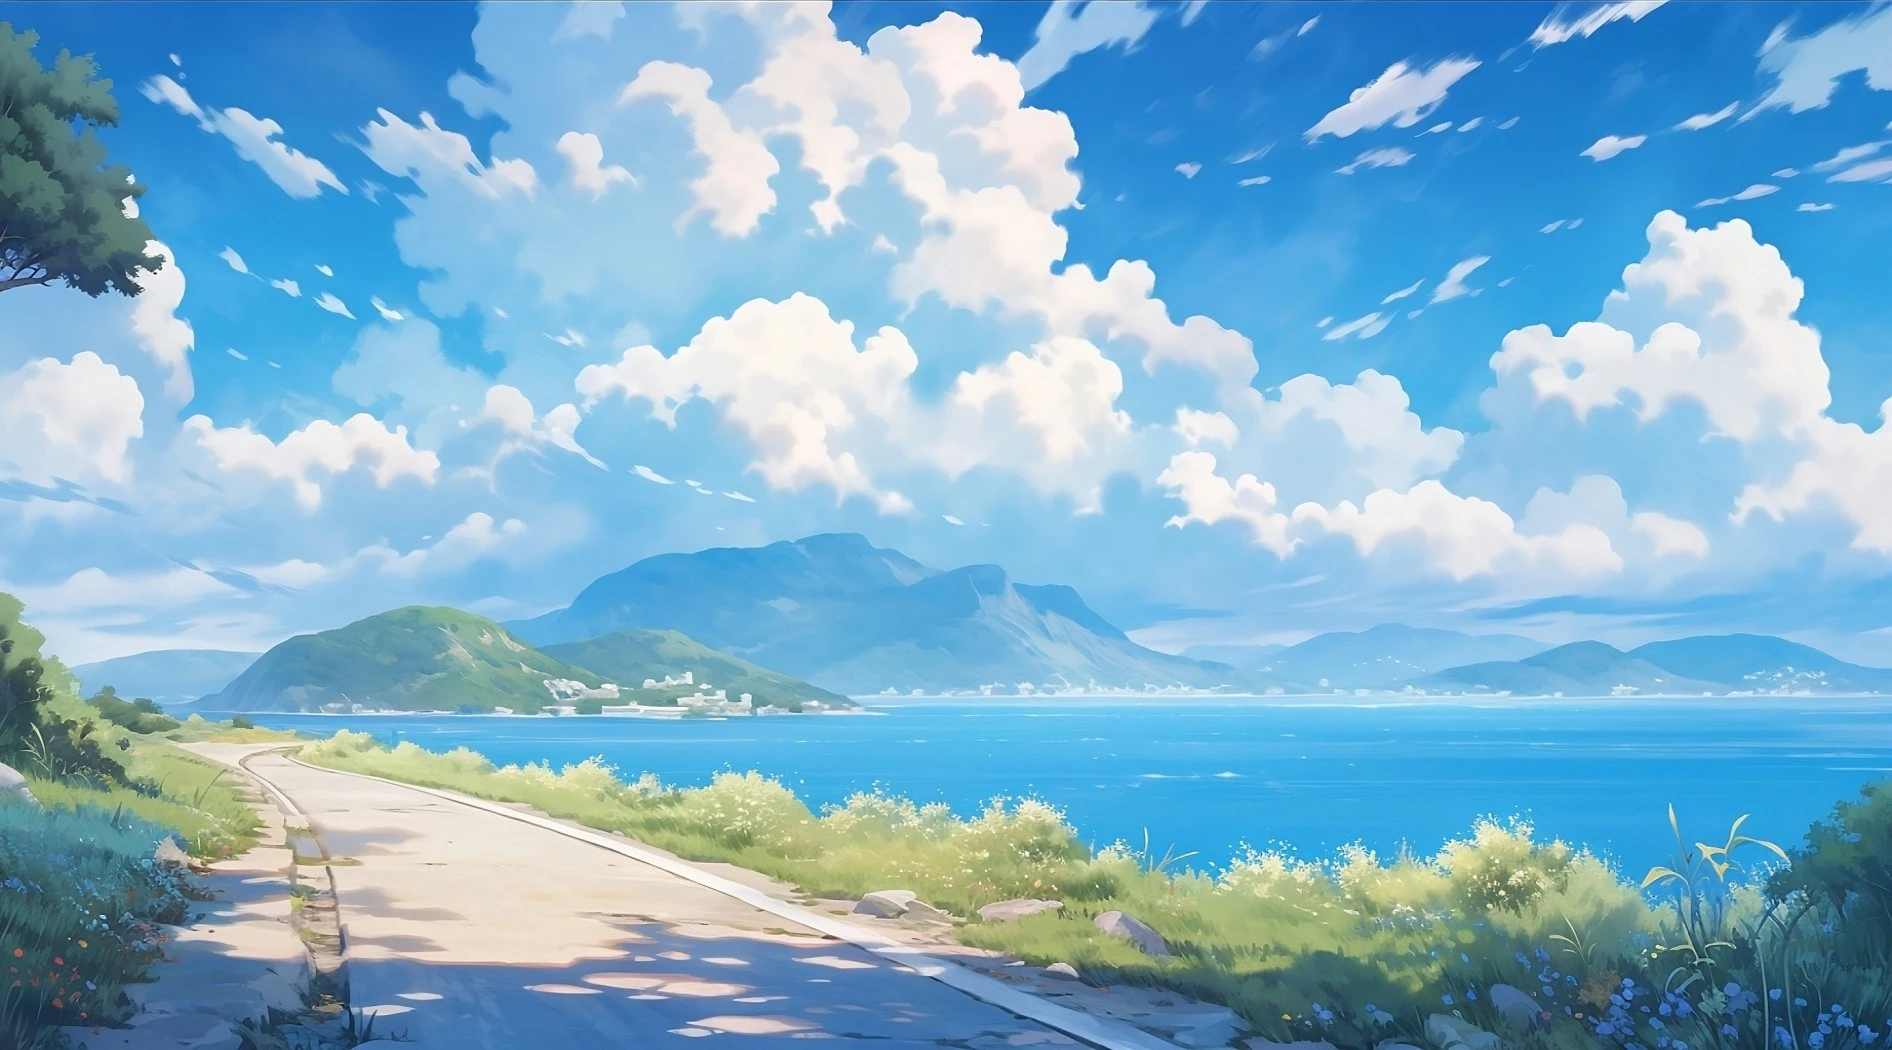
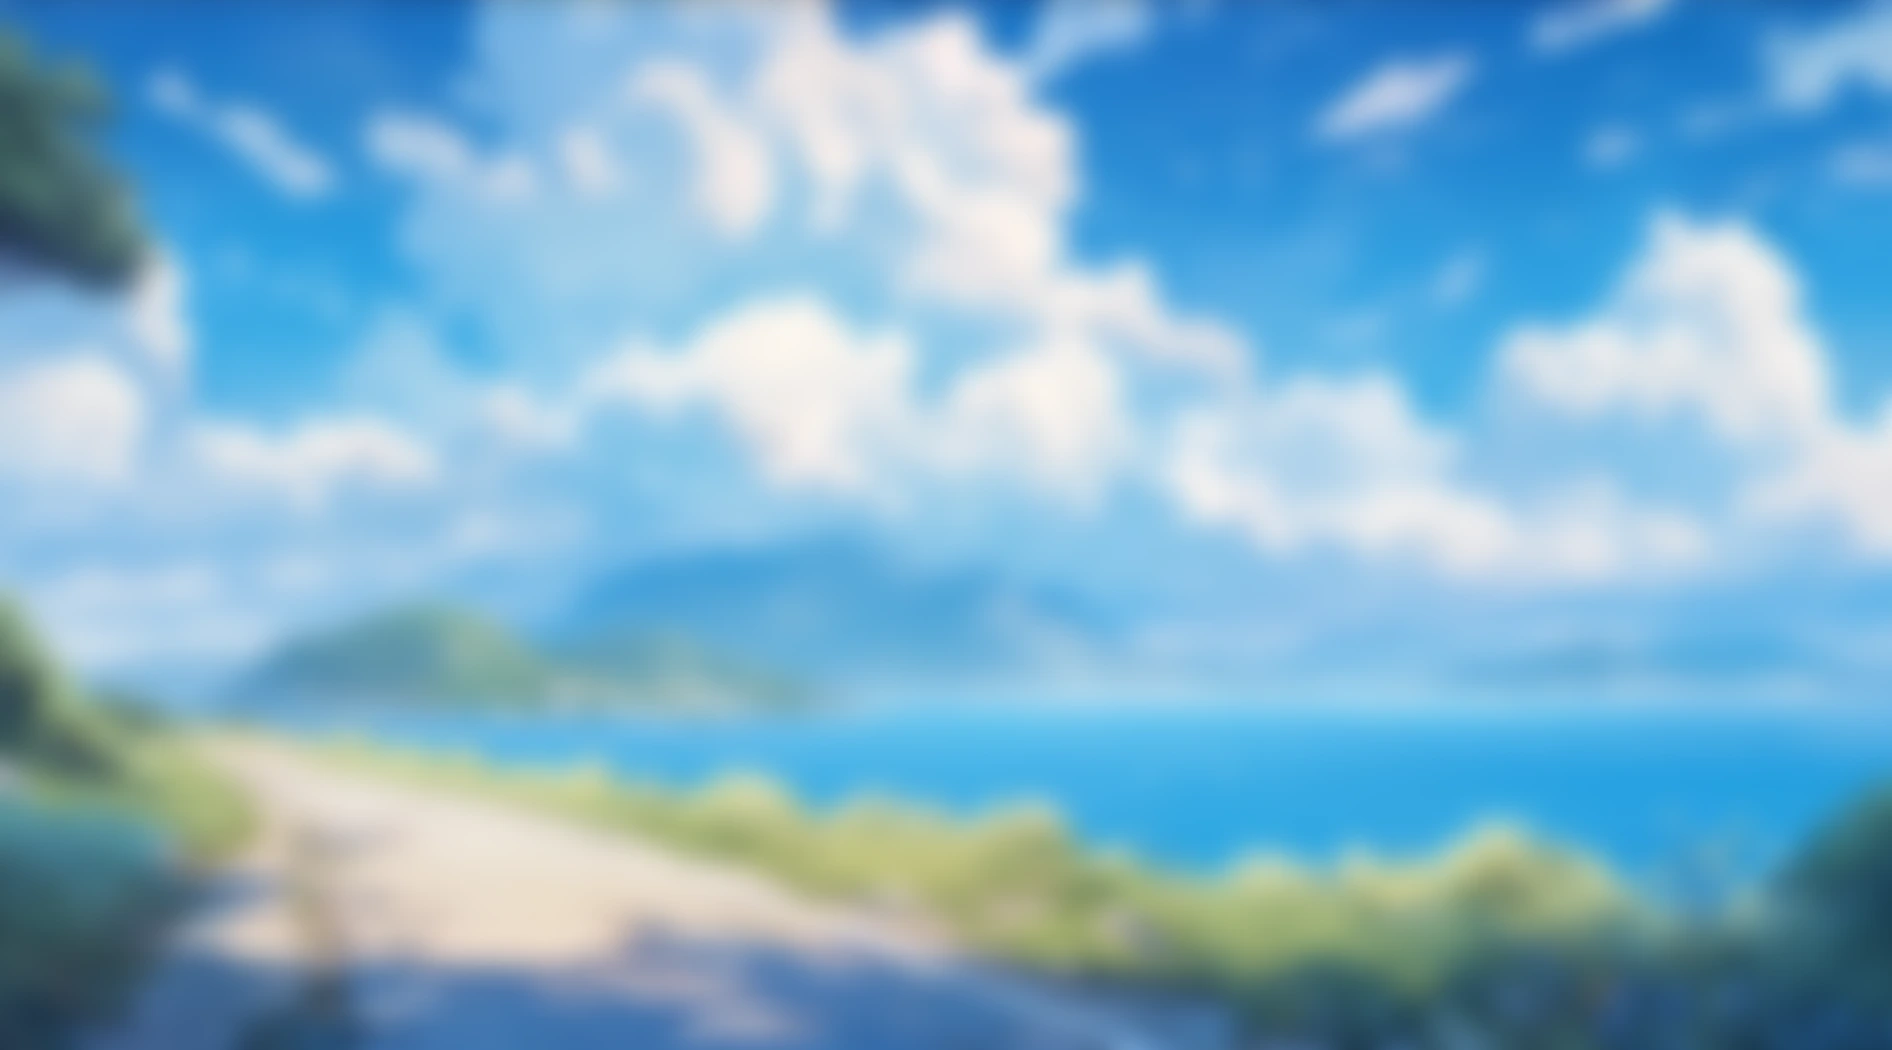
`FIX` STANDPOINT#1

diff --git a/style/main.css b/style/main.css
@@ -11,17 +11,11 @@ body {
   scroll-behavior: smooth;
   -ms-overflow-style: none;
   scrollbar-width: none;
-  background-color: var(--theme-bg);
-  transition: background-color 0.65s ease-in-out, opacity 0.65s ease-in-out;
-  display: flex;
+  transition: background-color 0.55s ease-in-out, opacity 0.65s ease-in-out;
 }
 
 body::-webkit-scrollbar {
   display: none;
-}
-
-.title-page {
-  color: var(--theme-fg);
 }
 
 .title-text {
@@ -42,13 +36,7 @@ body::-webkit-scrollbar {
   transform: translate(-50%, -50%);
   text-overflow: clip;
   text-shadow: 0px 6px 4px rgba(0, 0, 0, 0.69);
-  transition: color 0.55s ease-in-out, opacity 0.55s ease-in-out;
-}
-
-.row:after {
-  content: "";
-  display: table;
-  clear: both;
+  transition: color 0.65s ease-in-out;
 }
 
 .menu-bar {
@@ -60,14 +48,12 @@ body::-webkit-scrollbar {
 .content {
   /* used for page elements outside of the part with the bg-image */
   background-color: var(--theme-bg);
-  color: var(--theme-fg);
-  font-family: "Poppins", sans-serif;
 }
 
 .bg-image {
   height: 100vh;
   width: 100%;
-  overflow: hidden;
+  background-image: var(--background-img);
   background-repeat: no-repeat;
   background-size: cover;
   background-attachment: fixed;
@@ -76,17 +62,13 @@ body::-webkit-scrollbar {
   top: 0;
   left: 0;
   z-index: -1;
+  filter: brightness(var(--background-opacity));
+  transition: background-image 0.65s ease-in-out, opacity 0.65s ease-in-out,
+    filter 0.65s ease-in-out;
 }
 
-.bg-image #bg-blurred {
-  width: 105%;
-  height: 105%;
-  margin: -5px;
-  filter: blur(0.5rem);
-}
-
-img {
-  transition: opacity 0.55s ease-in-out;
+.bg-image-transition {
+  opacity: 0;
 }
 
 .light-mode {

diff --git a/index.html b/index.html
@@ -14,33 +14,26 @@
     <!-- Insert files and stuff -->
     <link rel="stylesheet" href="./style/main.css" />
     <link rel="stylesheet" href="./style/themebutton.css" />
-    <link rel="stylesheet" href="./style/macro.css" />
     <link rel="stylesheet" href="./style/colors.css" />
     <script type="text/javascript" src="./js/themeController.js"></script>
   </head>
 
   <body>
-    <div class="row">
-      <div class="title-page">
-        <div class="bg-image">
-          <img id="bg-blurred" src="./assets/images/bg-dark.webp" />
-        </div>
-        <div class="title-text">exoad</div>
-        <div class="menu-bar affixed-tl">
-          <button
-            id="theme-button"
-            onclick="themeController_toggleLightMode()"
-            class="theme-box"
-            title="Let there be light!"
-          >
-            <img src="./assets/icons/theme-light-sun.svg" id="theme-icon" />
-          </button>
-          <button id="theme-button">
-            <img src="./assets/icons/thumbs-up.svg" id="theme-icon" />
-          </button>
-        </div>
-      </div>
-      <div class="content">x x x x xx xxx</div>
+
+    <div class="bg-image"></div>
+    <div class="title-text">exoad</div>
+    <div class="menu-bar">
+      <button
+        id="theme-button"
+        onclick="themeController_toggleLightMode()"
+        class="theme-box"
+        title="Let there be light!"
+      >
+        <img src="./assets/icons/theme-light-sun.svg" id="theme-icon" />
+      </button>
+      <button id="theme-button">
+        <img src="./assets/icons/thumbs-up.svg" id="theme-icon" />
+      </button>
     </div>
   </body>
 </html>

diff --git a/js/themeController.js b/js/themeController.js
@@ -16,6 +16,7 @@ function themeController_toggleLightMode() {
       ? "url(../assets/images/bg-dark.webp)"
       : "url(../assets/images/bg-light.webp)"
   );
+  docEleStyle.setProperty("--background-opacity", isLightMode ? "65%" : "85%");
   document.querySelector(".bg-image").classList.add("bg-image-transition");
   setTimeout(function () {
     document.querySelector(".bg-image").classList.remove("bg-image-transition");
@@ -27,7 +28,5 @@ function themeController_toggleLightMode() {
   themeIcon.title = isLightMode
     ? "Let there be light!"
     : "Let there be darkness";
-  document.getElementById("bg-blurred").src =
-    "../assets/images/" + (isLightMode ? "bg-dark.webp" : "bg-light.webp");
   isLightMode = !isLightMode;
 }

diff --git a/style/colors.css b/style/colors.css
@@ -5,6 +5,7 @@
   --theme-antibg: #FFF;
   --theme-body-transparency: rgba(0, 0, 0, 0.205);
   --transparent: rgba(0, 0, 0, 0);
+  --background-opacity: 50%;
   --semi-transparent: rgba(136, 136, 136, 0.659);
   --theme-pink: #da2967;
   --theme-green: #31d354;

diff --git a/style/themebutton.css b/style/themebutton.css
@@ -18,7 +18,6 @@
 }
 
 #theme-button {
-  outline: none;
   background-color: var(--semi-transparent);
   border: 2.5px solid var(--semi-transparent);
   border-top: 0;
